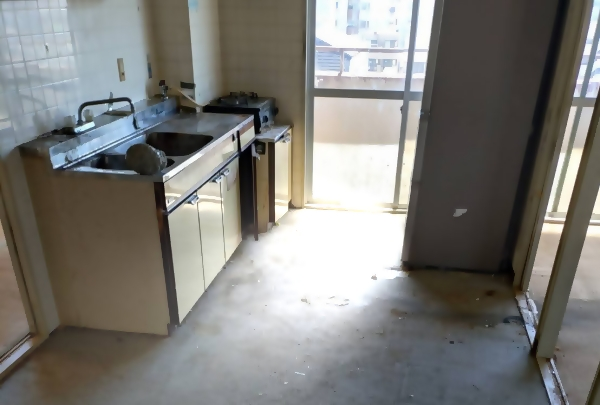
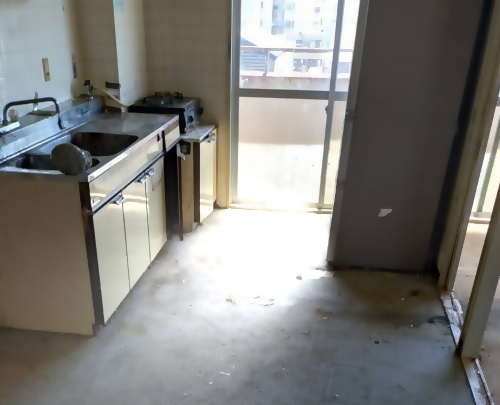
施工事例4つ目追加

diff --git a/index.html b/index.html
@@ -36,9 +36,9 @@
 
     <!-- CSS
     ================================================== -->
-    <link rel="stylesheet" href="css/base.css">
+    <link rel="stylesheet" href="css/base.css?202410081216">
     <link rel="stylesheet" href="css/vendor.css">
-    <link rel="stylesheet" href="css/main.css?202410032114">
+    <link rel="stylesheet" href="css/main.css?202410081218">
 
     <!-- script
     ================================================== -->
@@ -350,55 +350,67 @@
                 </div>
             </div> <!-- end section-header -->
 
+            <div class="row works-content">
+                <div class="col-full">
+                    <div class="works-list block-1-2 block-tab-full">
+                        <div class="col-block works-item w-left" data-aos="fade-up">
+                            <div class="img-tag">
+                                <img src="images/works_01_before.jpg" alt="事例1 施工前">
+                                <p class="img-tag-before">BEFORE</p>
+                            </div>
+                            <div class="works-arrow">
+                                <img src="images/works_arrow.png" alt="矢印">
+                            </div>
+                            <div class="img-tag">
+                                <img src="images/works_01_after.jpg" alt="事例1 施工後">
+                                <p class="img-tag-after">AFTER</p>
+                            </div>
+                        </div>
+                        <div class="col-block works-item w-rigth" data-aos="fade-up">
+                            <div class="img-tag">
+                                <img src="images/works_02_before.jpg" alt="事例2 施工前">
+                                <p class="img-tag-before">BEFORE</p>
+                            </div>
+                            <div class="works-arrow">
+                                <img src="images/works_arrow.png" alt="矢印">
+                            </div>
+                            <div class="img-tag">
+                                <img src="images/works_02_after.jpg" alt="事例2 施工後">
+                                <p class="img-tag-after">AFTER</p>
+                            </div>
+                        </div>
+
+                        <div class="col-block works-item w-left" data-aos="fade-up">
+                            <div class="img-tag">
+                                <img src="images/works_03_before.jpg" alt="事例3 施工前">
+                                <p class="img-tag-before">BEFORE</p>
+                            </div>
+                            <div class="works-arrow">
+                                <img src="images/works_arrow.png" alt="矢印">
+                            </div>
+                            <div class="img-tag">
+                                <img src="images/works_03_after.jpg" alt="事例3 施工後">
+                                <p class="img-tag-after">AFTER</p>
+                            </div>
+                        </div>
+
+                        <div class="col-block works-item w-rigth" data-aos="fade-up">
+                            <div class="img-tag">
+                                <img src="images/works_04_before.jpg" alt="事例4 施工前">
+                                <p class="img-tag-before">BEFORE</p>
+                            </div>
+                            <div class="works-arrow">
+                                <img src="images/works_arrow.png" alt="矢印">
+                            </div>
+                            <div class="img-tag">
+                                <img src="images/works_04_after.jpg" alt="事例4 施工後">
+                                <p class="img-tag-after">AFTER</p>
+                            </div>
+                        </div>
+                    </div>
+                </div> <!-- end col-full -->
+            </div> <!-- end works-content -->
         </div> <!-- end intro-wrap -->
-
-        <div class="row works-content">
-            <div class="col-full">
-                <div class=" works-list block-1-2 block-tab-full">
-                    <div class="col-block works-item w-left" data-aos="fade-up">
-                        <div class="img-tag">
-                            <img src="images/works_01_before.jpg" alt="事例1 施工前">
-                            <p class="img-tag-before">BEFORE</p>
-                        </div>
-                        <div class="works-arrow">
-                            <img src="images/works_arrow.png" alt="矢印">
-                        </div>
-                        <div class="img-tag">
-                            <img src="images/works_01_after.jpg" alt="事例1 施工後">
-                            <p class="img-tag-after">AFTER</p>
-                        </div>
-                    </div>
-
-                    <div class="col-block works-item w-center" data-aos="fade-up">
-                        <div class="img-tag">
-                            <img src="images/works_02_before.jpg" alt="事例2 施工前">
-                            <p class="img-tag-before">BEFORE</p>
-                        </div>
-                        <div class="works-arrow">
-                            <img src="images/works_arrow.png" alt="矢印">
-                        </div>
-                        <div class="img-tag">
-                            <img src="images/works_02_after.jpg" alt="事例2 施工後">
-                            <p class="img-tag-after">AFTER</p>
-                        </div>
-                    </div>
-
-                    <div class="col-block works-item w-rigth" data-aos="fade-up">
-                        <div class="img-tag">
-                            <img src="images/works_03_before.jpg" alt="事例3 施工前">
-                            <p class="img-tag-before">BEFORE</p>
-                        </div>
-                        <div class="works-arrow">
-                            <img src="images/works_arrow.png" alt="矢印">
-                        </div>
-                        <div class="img-tag">
-                            <img src="images/works_03_after.jpg" alt="事例3 施工後">
-                            <p class="img-tag-after">AFTER</p>
-                        </div>
-                    </div>
-                </div>
-            </div> <!-- end col-full -->
-        </div> <!-- end works-content -->
 
     </section> <!-- end s-works -->
 

diff --git a/css/main.css b/css/main.css
@@ -2564,8 +2564,9 @@ button.btn--radius
 }
 
 .works-content {
-    max-width: 1160px;
+    max-width: 1200px;
     margin-top: -63.4rem;
+    transform: skewY(7deg);
 }
 .works-list {
     display: flex;
@@ -2573,8 +2574,8 @@ button.btn--radius
     /* justify-content: space-around; */
 }
 .works-list .works-item {
-    padding: 1em;
-    flex-basis: 30%;
+    padding: 1em 0.8em;
+    flex-basis: 24%;
 }
 .works-list .works-item .img-tag {
     position: relative;
@@ -2614,22 +2615,27 @@ button.btn--radius
  * ------------------------------------------------------------------- */
  @media only screen and (max-width: 1000px) {
     .s-works .intro-wrap{
-        height: 460px;
-    }
- }
- @media only screen and (max-width: 800px) {
-    .s-works .intro-wrap{
         padding: 22rem 0 15.2rem;
-        height: 2360px;
+        height: 1310px;
+    }
+    .works-list {
+        display: flex;
+        flex-wrap: wrap;
+        justify-content: center;
+        margin: 0 auto;
+    }
+    .works-list .works-item {
+        flex-basis: 49%;
     }
     .works-content {
         margin-top: -300rem;
     }
-    .works-list {
-        display: unset;
-        margin: 0px 15px;
+}
+@media only screen and (max-width: 800px) {
+    .s-works .intro-wrap{
+        height: 1000px;
     }
- }
+}
 @media only screen and (max-width: 600px) {
     .s-works {
         padding: 0 0 12rem 0;
@@ -2642,7 +2648,7 @@ button.btn--radius
     }
     .s-works .intro-wrap {
         padding: 23rem 0 2.2rem;
-        height: 1900px;
+        height: 770px;
     }
     .works-content {
         margin-top: -200rem;
@@ -2654,10 +2660,13 @@ button.btn--radius
 @media only screen and (max-width: 400px) {
     .s-works .intro-wrap {
         padding: 25rem 0 2.2rem;
-        height: 1680px;
+        height: 670px;
     }
     .works-content {
-        margin-top: -177rem;
+        margin-top: -175rem;
+    }
+    [class*="col-"] {
+        float: left!important;
     }
 }
 
@@ -2737,6 +2746,9 @@ button.btn--radius
     .price-list .price-table.t-right,
     .price-list .price-table.t-left {
         padding-left: 16px;
+    }
+    .price-list .price-table.t-right{
+        padding-right: 16px;
     }
     .price-list .price-item table {
         margin-bottom: 0rem;
